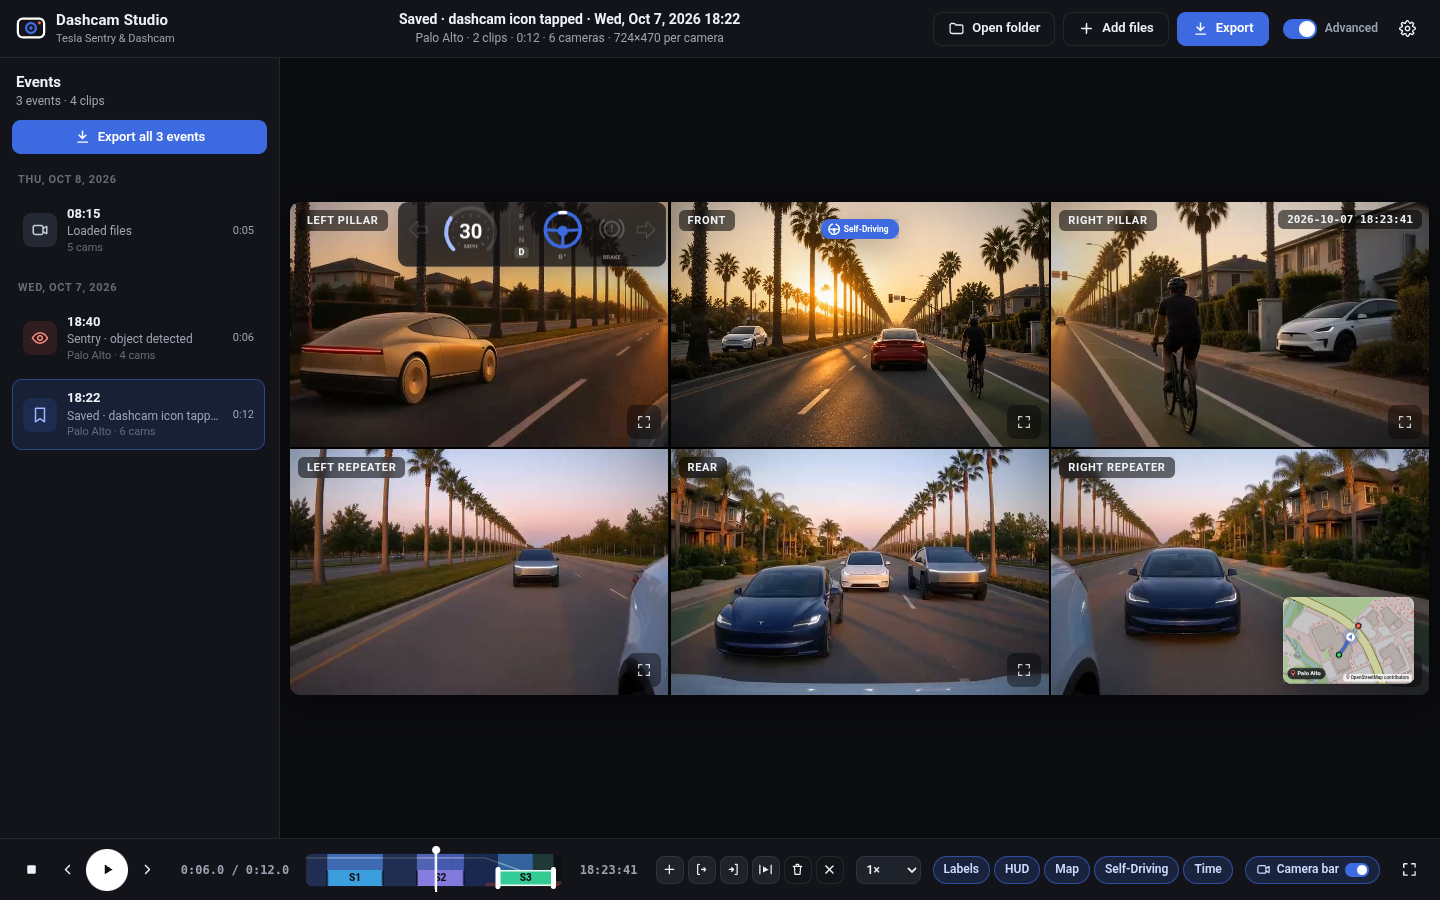
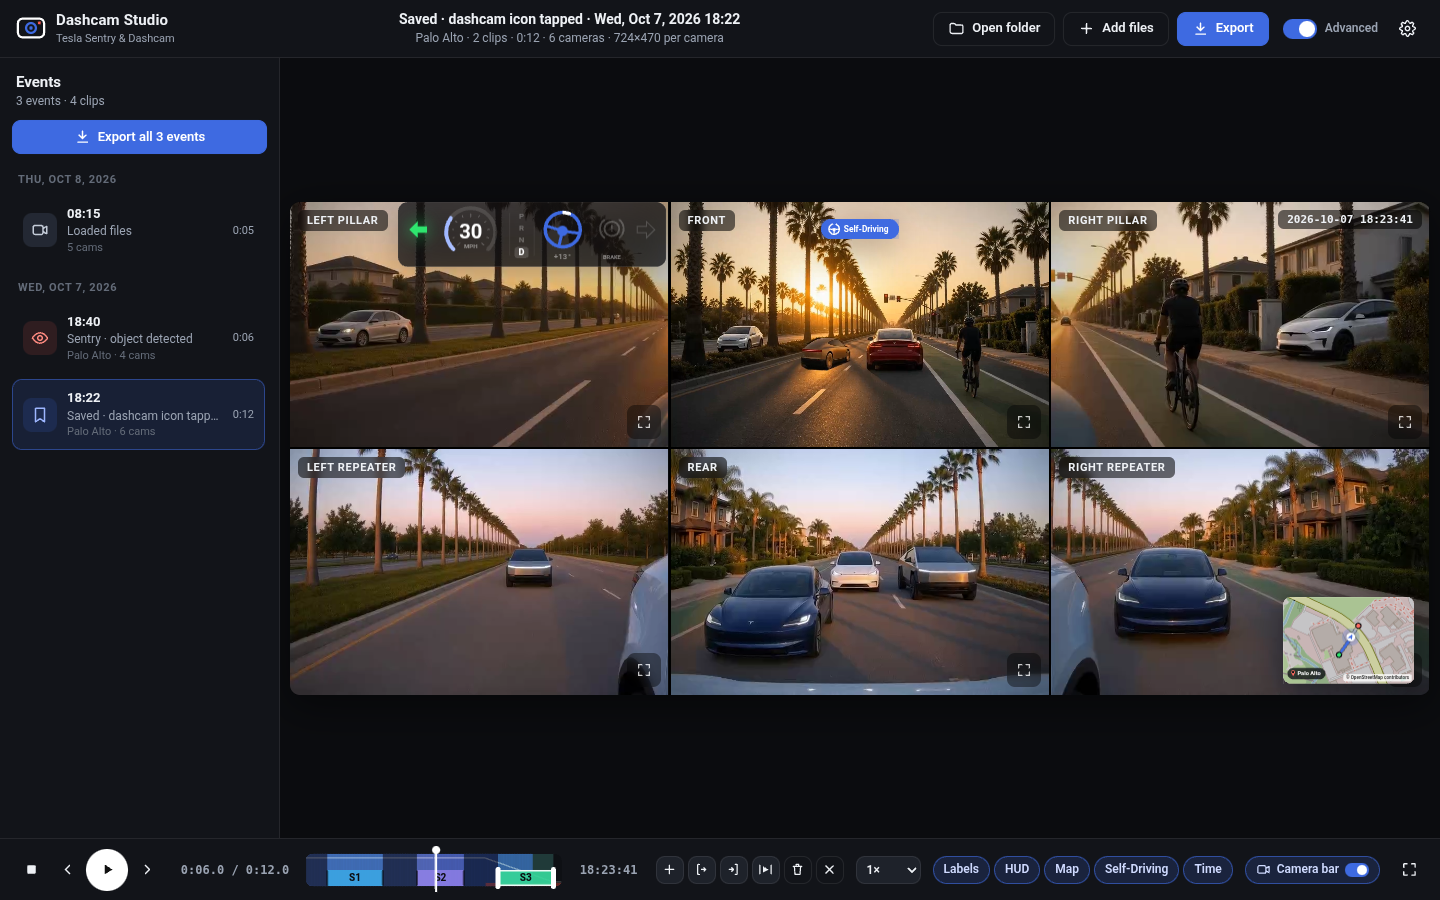
README screenshots: Cybercab overtakes while we signal, then we change lanes behind it

diff --git a/README.md b/README.md
@@ -15,7 +15,7 @@ A Tesla dashcam and Sentry viewer that runs entirely in your browser. Drop in yo
 
 ![Full screen: front camera at golden hour with the telemetry HUD and Self-Driving badge](screenshots/photo-hero-fullscreen.png)
 
-![Six-camera grid with HUD, route map and Self-Driving badge, mid lane change with the left blinker on](screenshots/photo-grid.png)
+![Six-camera grid with HUD, route map and Self-Driving badge: left blinker on while a Cybercab overtakes, before the lane change](screenshots/photo-grid.png)
 
 ![Sentry event at golden hour: a hooded passer-by on the right repeater](screenshots/photo-sentry.png)
 
